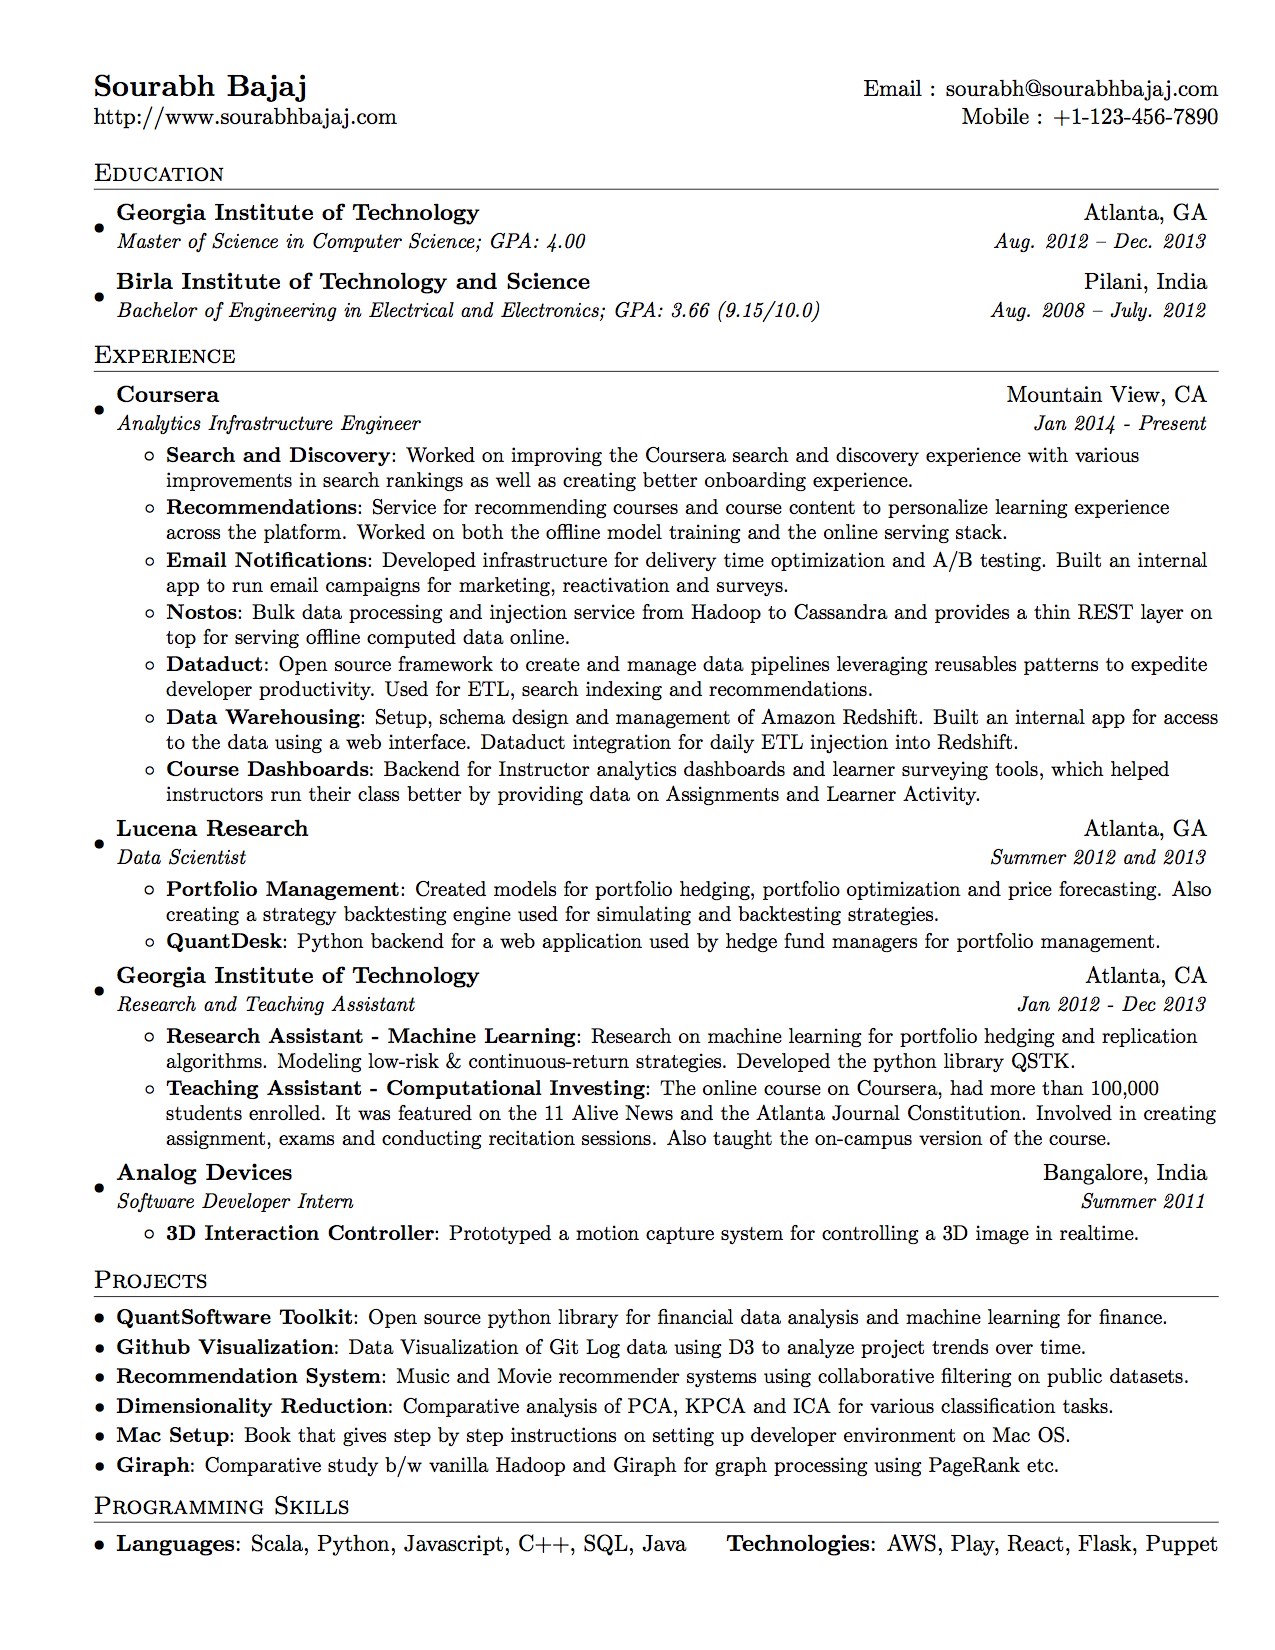
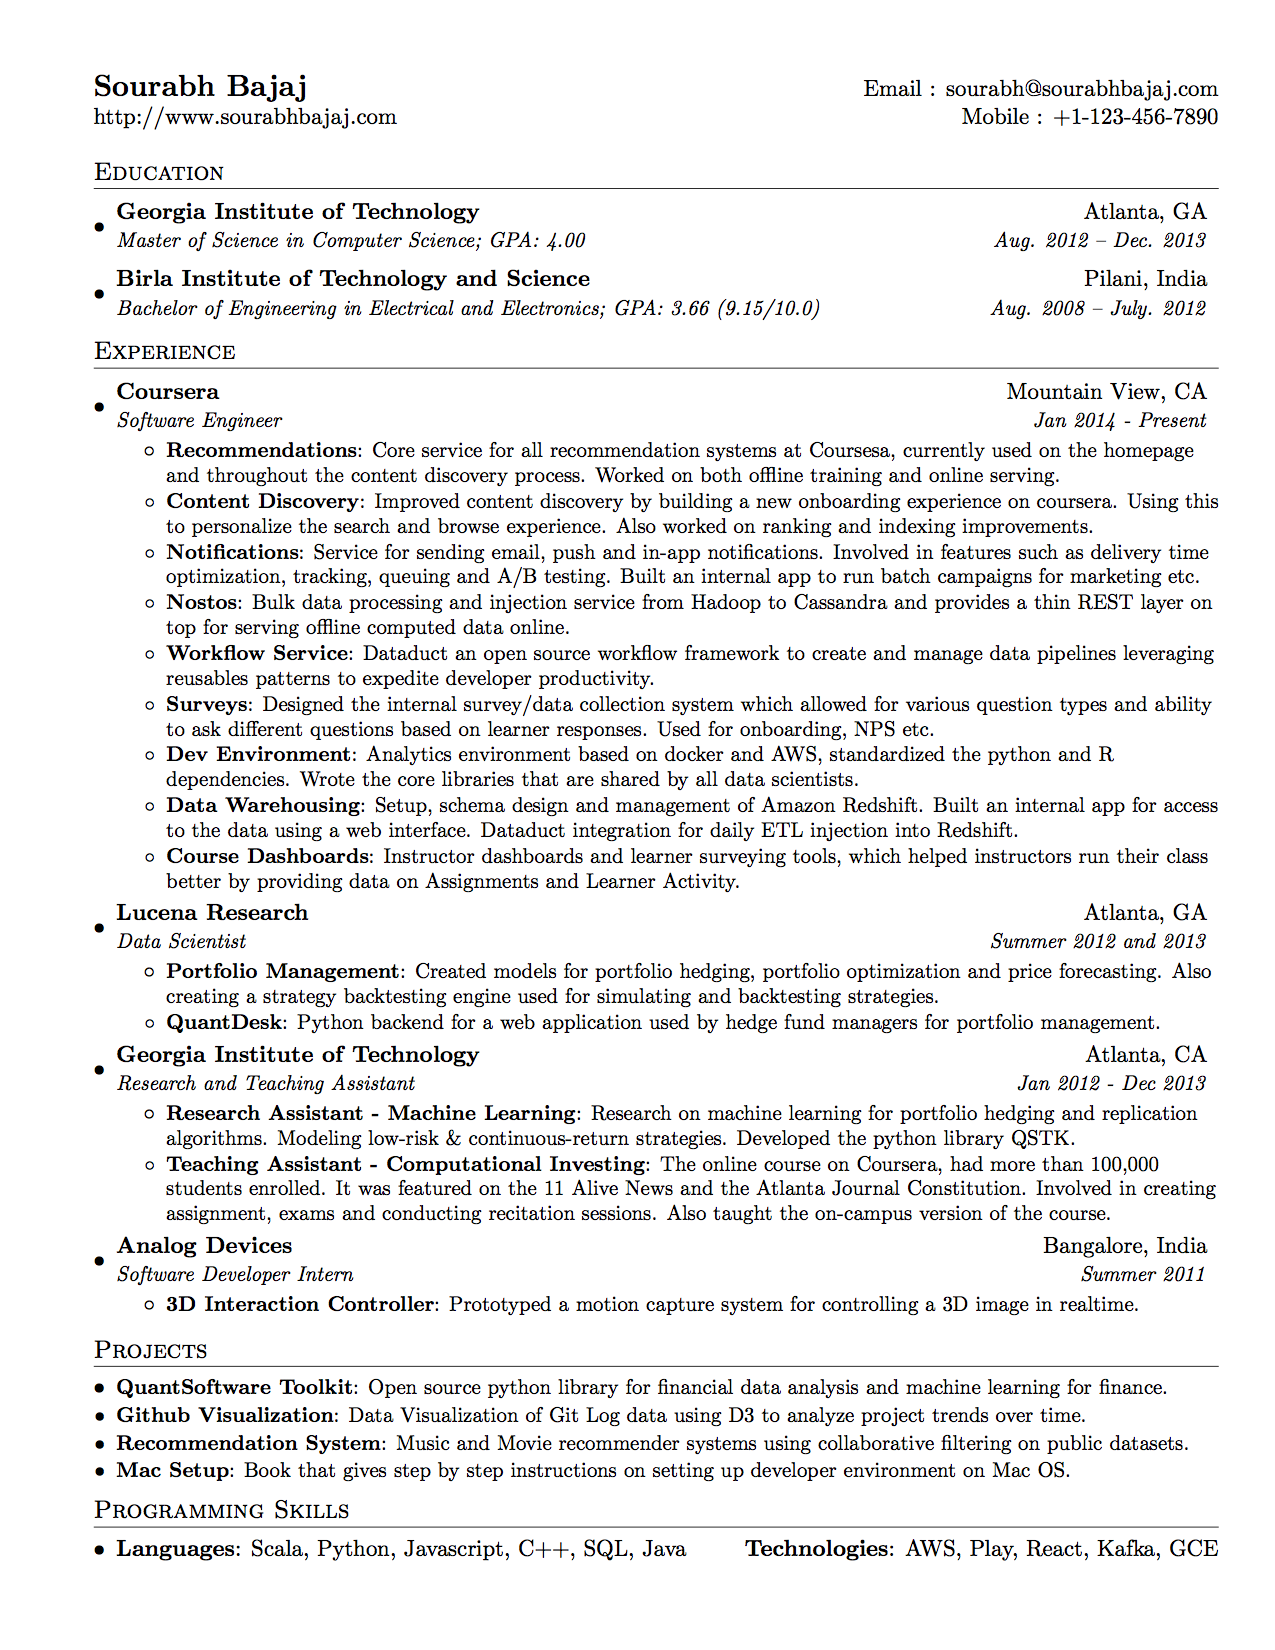
Add new projects in the experience section

Changed region(s): [[0.0612, 0.0927, 0.9482, 0.9582], [0.5812, 0.9273, 0.9482, 0.9582], [0.4588, 0.9273, 0.5506, 0.9582]]

diff --git a/sourabh_bajaj_resume.tex b/sourabh_bajaj_resume.tex
@@ -96,22 +96,26 @@
   \resumeSubHeadingListStart
     \resumeSubheading
       {Coursera}{Mountain View, CA}
-      {Analytics Infrastructure Engineer}{Jan 2014 - Present}
+      {Software Engineer}{Jan 2014 - Present}
       \resumeItemListStart
-        \resumeItem{Search and Discovery}
-          {Worked on improving the Coursera search and discovery experience with various improvements in search rankings as well as creating better onboarding experience.}
         \resumeItem{Recommendations}
-          {Service for recommending courses and course content to personalize learning experience across the platform. Worked on both the offline model training and the online serving stack.}
-        \resumeItem{Email Notifications}
-          {Developed infrastructure for delivery time optimization and A/B testing. Built an internal app to run email campaigns for marketing, reactivation and surveys.}
+          {Core service for all recommendation systems at Coursesa, currently used on the homepage and throughout the content discovery process. Worked on both offline training and online serving.}
+        \resumeItem{Content Discovery}
+          {Improved content discovery by building a new onboarding experience on coursera. Using this to personalize the search and browse experience. Also worked on ranking and indexing improvements.}
+        \resumeItem{Notifications}
+          {Service for sending email, push and in-app notifications. Involved in features such as delivery time optimization, tracking, queuing and A/B testing. Built an internal app to run batch campaigns for marketing etc.}
         \resumeItem{Nostos}
           {Bulk data processing and injection service from Hadoop to Cassandra and provides a thin REST layer on top for serving offline computed data online.}
-        \resumeItem{Dataduct}
-          {Open source framework to create and manage data pipelines leveraging reusables patterns to expedite developer productivity. Used for ETL, search indexing and recommendations.}
+        \resumeItem{Workflow Service}
+          {Dataduct an open source workflow framework to create and manage data pipelines leveraging reusables patterns to expedite developer productivity.}
+        \resumeItem{Surveys}
+          {Designed the internal survey/data collection system which allowed for various question types and ability to ask different questions based on learner responses. Used for onboarding, NPS etc.}
+        \resumeItem{Dev Environment}
+          {Analytics environment based on docker and AWS, standardized the python and R dependencies. Wrote the core libraries that are shared by all data scientists.}
         \resumeItem{Data Warehousing}
           {Setup, schema design and management of Amazon Redshift. Built an internal app for access to the data using a web interface. Dataduct integration for daily ETL injection into Redshift.}
         \resumeItem{Course Dashboards}
-          {Backend for Instructor analytics dashboards and learner surveying tools, which helped instructors
+          {Instructor dashboards and learner surveying tools, which helped instructors
 run their class better by providing data on Assignments and Learner Activity.}
       \resumeItemListEnd
 
@@ -154,12 +158,8 @@ run their class better by providing data on Assignments and Learner Activity.}
       {Data Visualization of Git Log data using D3 to analyze project trends over time.}
     \resumeSubItem{Recommendation System}
       {Music and Movie recommender systems using collaborative filtering on public datasets.}
-    \resumeSubItem{Dimensionality Reduction}
-      {Comparative analysis of PCA, KPCA and ICA for various classification tasks.}
     \resumeSubItem{Mac Setup}
       {Book that gives step by step instructions on setting up developer environment on Mac OS.}
-    \resumeSubItem{Giraph}
-      {Comparative study b/w vanilla Hadoop and Giraph for graph processing using PageRank etc.}
   \resumeSubHeadingListEnd
 
 
@@ -169,7 +169,7 @@ run their class better by providing data on Assignments and Learner Activity.}
     \item{
       \textbf{Languages}{: Scala, Python, Javascript, C++, SQL, Java}
       \hfill
-      \textbf{Technologies}{: AWS, Play, React, Flask, Puppet}
+      \textbf{Technologies}{: AWS, Play, React, Kafka, GCE}
     }
   \resumeSubHeadingListEnd
 
